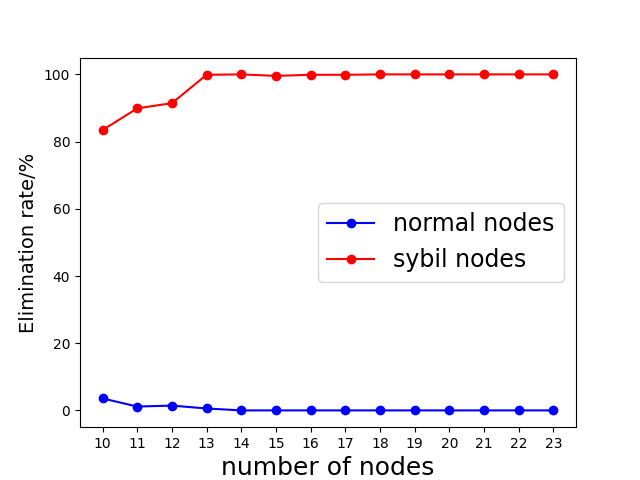
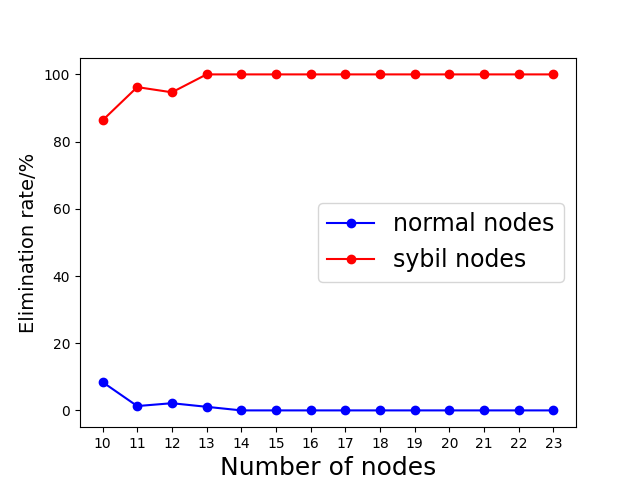
some modifications to figures

diff --git a/model_simulation/ServerDetection/case&plot.py b/model_simulation/ServerDetection/case&plot.py
@@ -1,3 +1,5 @@
+import math
+
 from matplotlib import transforms
 
 from ServerDetection.server import Server
@@ -218,13 +220,20 @@ def diff_ap_average_score_plot():
             counter += 1
     x_axis = list(range(10, 24))
     print(avg_n, "\n", avg_s)
+    avg_t = []
+    for i in range(10, 24):
+        b = i/5
+        rnd = 2 * int(math.log(i, 2))
+        avg_t.append(rnd* b*(b-1)/2)
 
     for j in range(3):
-        plt.bar([i - 0.1 for i in x_axis], [float(i) for i in avg_n[j]], 0.2, color='b', label="normal nodes")
-        plt.bar([i + 0.1 for i in x_axis], [float(i) for i in avg_s[j]], 0.2, color='r', label="Sybil nodes")
+        plt.bar([i - 0.2 for i in x_axis], [float(i) for i in avg_n[j]], 0.2, color='b', label="normal nodes")
+        plt.bar([i + 0.2 for i in x_axis], [float(i) for i in avg_s[j]], 0.2, color='r', label="Sybil nodes")
+        plt.bar([i for i in x_axis], [float(i) for i in avg_t], 0.2, color='y', label="Threshold")
         plt.xticks(x_axis, x_axis)
+        plt.yticks(np.arange(0,100, 10), np.arange(0,100,10))
         plt.xlabel("Number of nodes", fontsize=15)
-        plt.ylabel("Average score", fontsize=15)
+        plt.ylabel("Average score", fontsize=15, labelpad=10)
         plt.legend(prop={'size': 15})
         plt.show()
         plt.clf()
@@ -253,7 +262,7 @@ def diff_ap_eviction_rate():
         plt.plot(x_axis, [float(i)*100 for i in evic_n[j]], "o-", color='b', label="normal nodes")
         plt.plot(x_axis, [100 - float(i)*100 for i in evic_s[j]], "o-", color='r', label="sybil nodes")
         plt.xticks(x_axis, x_axis[::1])
-        plt.xlabel("number of nodes", fontsize=18)
+        plt.xlabel("Number of nodes", fontsize=18)
         plt.ylabel("Elimination rate/%", fontsize=14)
         plt.legend(prop={'size': 17})
         plt.show()
@@ -265,7 +274,7 @@ def diff_impersonate_rate_plot():
     fp = None
     error_rates = None
     ctr = 0
-    with open("error_rate_result_2.txt", "r+") as file:
+    with open("error_rate_result3.txt", "r+") as file:
         for line in file:
             line.strip()
             if line == "\n" or line == "":
@@ -356,10 +365,10 @@ def misbehavior_rate_plot():
 
 if __name__ == '__main__':
     pass
-    # diff_impersonate_rate_plot()
+    diff_impersonate_rate_plot()
     # diff_ap_eviction_rate()
     # round_comparison_plot()
-    misbehavior_rate_plot()
+    # misbehavior_rate_plot()
     # diff_ap_average_score_plot()
     # server_test()
     # case_test()

diff --git a/model_simulation/ServerDetection/__init__.py b/model_simulation/ServerDetection/__init__.py
@@ -37,7 +37,7 @@ def normal_sybil_model():
         model.main_process()
 
 
-def error_rate_difference(filename="error_rate_result.txt"):
+def error_rate_difference(filename="error_rate_result3.txt"):
     data_init()
     error_rate = 0.0
     for i in range(11):
@@ -45,7 +45,7 @@ def error_rate_difference(filename="error_rate_result.txt"):
         fp.append(0)
         error_rates.append(error_rate)
         for j in range(1000):
-            model = Model(16, 0.4, 0, error_rate=error_rate)
+            model = Model(16, 0.4, 2, error_rate=error_rate)
             model.main_process()
             statistics(model.normals, model.sybils, model.malicious, model.server.normal_list, fn, fp)
         error_rate += 0.01
@@ -157,14 +157,14 @@ def round_comparison(filename="round_comparison.txt"):
     pass
 
 
-def misbehavior_comparison(filename="framing_ratio2.txt"):
+def misbehavior_comparison(filename="framing_ratio3.txt"):
     for k in range(3):
         error_rate = 0.0
         for j in range(11):
             fn.append(0)
             fp.append(0)
             for i in range(100):
-                model = NormalSybilModel(16, 0.4, k, frame_ratio=error_rate, error_rate=0.1)
+                model = NormalSybilModel(16, 0.4, k, frame_ratio=error_rate, error_rate=0)
                 model.main_process()
                 statistics(model.normals, model.sybils, model.malicious, model.server.normal_list, fn, fp)
             error_rate += 0.1
@@ -177,10 +177,10 @@ def misbehavior_comparison(filename="framing_ratio2.txt"):
 
 if __name__ == '__main__':
     # basic()
-    # error_rate_difference()
+    error_rate_difference()
     # n_rounds_server_model()
     # normal_sybil_model()
-    misbehavior_comparison()
+    # misbehavior_comparison()
     # average_score()
     # score_comparison(server="server2")
     # eviction_comparison()

diff --git a/model_simulation/ServerDetection/server.py b/model_simulation/ServerDetection/server.py
@@ -118,7 +118,7 @@ class Server(object):
                 score_sum = score_sum + node_score
                 self.score_list[node_id] = self.score_list[node_id] - node_score
             if self.score_list[company_id] >= 0:
-                self.score_list[company_id] = self.score_list[company_id] + score_sum
+                self.score_list[company_id] = self.score_list[company_id] + score_sum/2
             self.sentry_record[company_id].pop(node)
         self.sentry_record[node].clear()
         self.score_list[node] = -1
